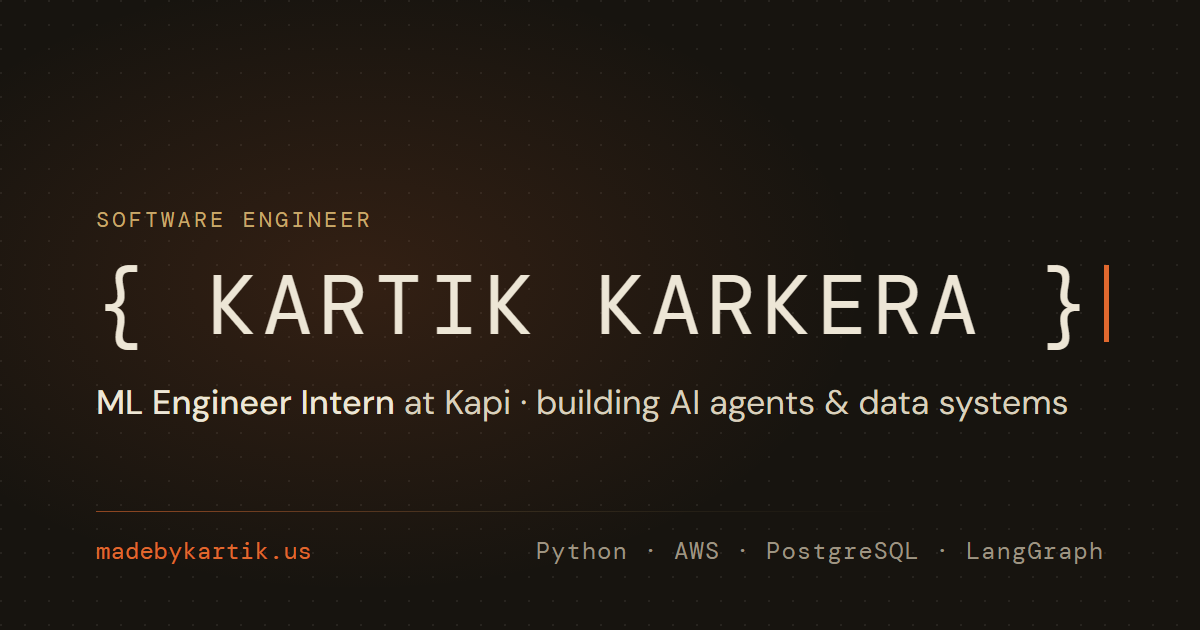
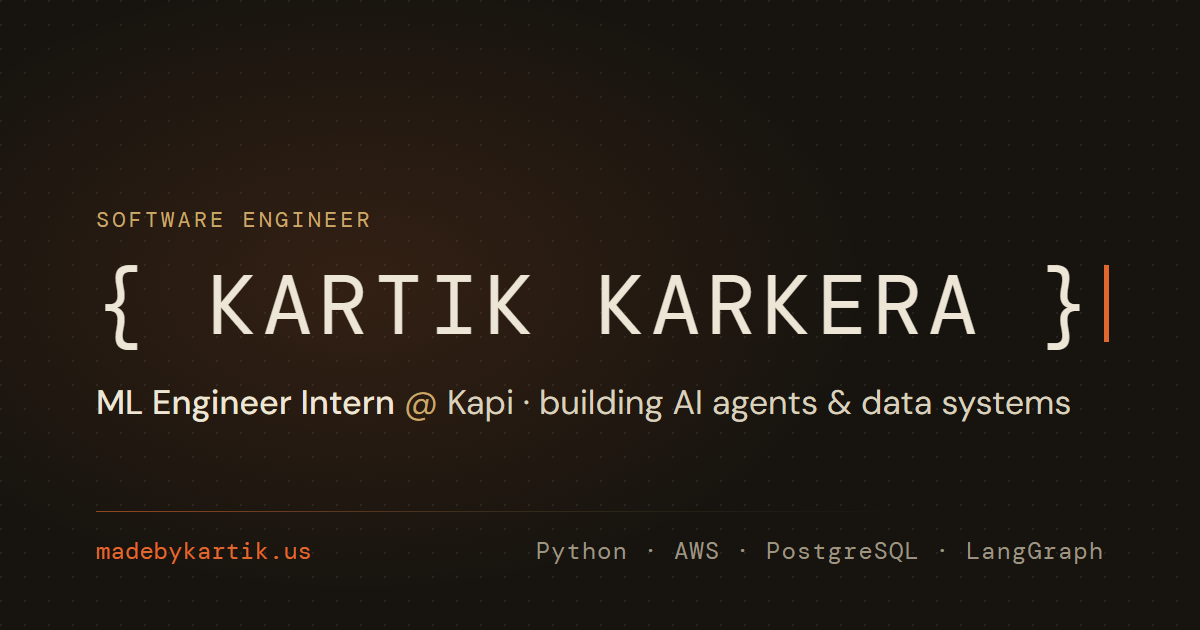
Refine hero: quieter Now chip, prominent age, earlier reveal
- Make the "Now building Duo" chip a static, minimal outline link
- Enlarge and brighten the live age number
- Fade hero content in as the name starts gliding, not after it lands
- Use "@ Kapi" and "@ PyCray" in the role line and link preview
- Phones: wrap the chip as one sentence and hide the scroll cue

Changed region(s): [[0.3392, 0.6032, 0.8942, 0.6635]]

diff --git a/src/components/Title/Title.css b/src/components/Title/Title.css
@@ -138,6 +138,12 @@
     text-decoration-color: var(--accent-gold);
 }
 
+/* "@" reads as a handle, so keep it quieter than the company name */
+.hero-at {
+    color: var(--accent-blue);
+    font-weight: 400;
+}
+
 .hero-sep {
     margin: 0 0.55em;
     color: var(--accent-blue);
@@ -148,71 +154,62 @@
     white-space: nowrap;
 }
 
-/* 3. Age: a quiet signature detail */
+/* 3. Age: the live number is the signature detail, so it gets the emphasis */
 .hero-age {
-    margin: 0;
+    margin: var(--space-1) 0 0;
     font-family: var(--font-mono);
-    font-size: clamp(0.8rem, 2.2vw, 0.9rem);
-    color: var(--text-300);
+    font-size: clamp(0.82rem, 2.3vw, 0.95rem);
+    line-height: 1.6;
+    color: var(--text-200);
 }
 
-/* 4. Now: the one loud element below the name */
+.hero-age .t-age {
+    font-size: 1.32em;
+    font-weight: 500;
+    vertical-align: -0.06em;
+}
+
+/* 4. Now: a quiet outlined link; the orange dot is its only accent */
+/* inline text (not flex) so a narrow screen wraps the sentence, not the dot and arrow */
 .hero-now {
-    display: inline-flex;
-    align-items: center;
-    flex-wrap: wrap;
-    justify-content: center;
-    gap: 0.35rem 0.6rem;
+    display: inline-block;
+    text-align: center;
+    line-height: 1.6;
     margin-top: var(--space-4);
-    padding: 0.55rem 1rem;
+    padding: 0.45rem 0.95rem;
     min-height: 44px;
-    border: 1px solid rgba(224, 104, 46, 0.38);
+    border: 1px solid rgba(201, 168, 106, 0.24);
     border-radius: 999px;
-    background: rgba(224, 104, 46, 0.08);
     font-family: var(--font-mono);
-    font-size: clamp(0.8rem, 2.3vw, 0.9rem);
-    color: var(--text-100);
+    font-size: clamp(0.8rem, 2.3vw, 0.88rem);
+    color: var(--text-200);
     text-decoration: none;
-    transition: border-color 0.25s ease, background-color 0.25s ease;
+    transition: border-color 0.25s ease, color 0.25s ease;
 }
 
 .hero-now:hover {
-    border-color: rgba(224, 104, 46, 0.75);
-    background: rgba(224, 104, 46, 0.14);
+    border-color: rgba(224, 104, 46, 0.6);
+    color: var(--text-100);
 }
 
 .hero-now strong {
-    color: var(--accent-gold);
+    color: var(--text-100);
     font-weight: 500;
-}
-
-.hero-now-label {
-    font-size: 0.78em;
-    font-weight: 500;
-    letter-spacing: 0.14em;
-    text-transform: uppercase;
-    color: var(--accent-gold);
 }
 
 .hero-now-dot {
-    position: relative;
-    width: 8px;
-    height: 8px;
+    display: inline-block;
+    vertical-align: 0.12em;
+    margin-right: 0.6em;
+    width: 6px;
+    height: 6px;
     border-radius: 50%;
     background: var(--accent-gold);
-}
-
-/* "live" pulse; the global reduced-motion rule stops it */
-.hero-now-dot::after {
-    content: "";
-    position: absolute;
-    inset: 0;
-    border-radius: 50%;
-    background: var(--accent-gold);
-    animation: nowPulse 2s var(--ease-out-quint) infinite;
 }
 
 .hero-now-arrow {
+    display: inline-block;
+    margin-left: 0.5em;
     color: var(--accent-gold);
     transition: transform 0.25s var(--ease-out-quint);
 }
@@ -358,11 +355,6 @@
 }
 
 /* ── Keyframes ─────────────────────────────────────────────── */
-@keyframes nowPulse {
-    0%   { transform: scale(1); opacity: 0.6; }
-    80%, 100% { transform: scale(2.6); opacity: 0; }
-}
-
 @keyframes caretBlink {
     50% { opacity: 0; }
 }
@@ -386,6 +378,13 @@
     .hero-now {
         border-radius: 16px;
         padding: 0.6rem 0.9rem;
+    }
+
+    /* the hero is taller than a phone screen, so the cue would sit on the links;
+       touch users scroll naturally anyway. Scoped under .hero-terminal so it outranks
+       the base .scroll-cue rule, which sits later in this file. */
+    .hero-terminal .scroll-cue {
+        display: none;
     }
 }
 

diff --git a/src/components/Title/Title.jsx b/src/components/Title/Title.jsx
@@ -21,11 +21,14 @@ const Title = ({ phase = "revealed", onNameReady, onOpenResume }) => {
         }
     }, [phase, onNameReady]);
 
+    // The h1 appears only when the overlay lands on it (a seamless swap),
+    // but everything else starts fading in as soon as the name begins to glide.
     const isRevealed = phase === "revealed";
+    const showContent = phase !== "typing";
 
     return (
         <div className={`hero-terminal phase-${phase}`}>
-            <div className={`terminal-content ${isRevealed ? "revealed" : ""}`}>
+            <div className={`terminal-content ${showContent ? "revealed" : ""}`}>
                 <h1
                     ref={nameRef}
                     className="terminal-name"
@@ -37,17 +40,16 @@ const Title = ({ phase = "revealed", onNameReady, onOpenResume }) => {
                     {"{ KARTIK KARKERA }"}
                 </h1>
                 <p className="hero-role" style={{ "--i": 1 }}>
-                    <span className="hero-role-item">ML Engineer Intern at <a href="#timeline">Kapi</a></span>
+                    <span className="hero-role-item">ML Engineer Intern <span className="hero-at">@</span> <a href="#timeline">Kapi</a></span>
                     <span className="hero-sep" aria-hidden="true">·</span>
-                    <span className="hero-role-item">Former SDE at <a href="#timeline">PyCray</a></span>
+                    <span className="hero-role-item">Former SDE <span className="hero-at">@</span> <a href="#timeline">PyCray</a></span>
                 </p>
                 <p className="hero-age" style={{ "--i": 2 }}>
                     I&apos;m a <Age /> year-old software engineer.
                 </p>
                 <a href="#project-duo" className="hero-now" style={{ "--i": 3 }}>
                     <span className="hero-now-dot" aria-hidden="true" />
-                    <span className="hero-now-label">Now</span>
-                    <span>Building <strong>Duo</strong>, a long-running AI agent</span>
+                    <span>Now building <strong>Duo</strong>, a long-running AI agent</span>
                     <span className="hero-now-arrow" aria-hidden="true">→</span>
                 </a>
                 <ul className="hero-awards" style={{ "--i": 4 }} aria-label="Hackathon awards">
@@ -73,13 +75,13 @@ const Title = ({ phase = "revealed", onNameReady, onOpenResume }) => {
                 </div>
             </div>
             <button
-                className={`scroll-cue ${isRevealed ? "revealed" : ""}`}
+                className={`scroll-cue ${showContent ? "revealed" : ""}`}
                 onClick={() => {
                     const reduce = window.matchMedia("(prefers-reduced-motion: reduce)").matches;
                     document.querySelector("#timeline")?.scrollIntoView({ behavior: reduce ? "auto" : "smooth" });
                 }}
                 aria-label="Scroll to experience"
-                tabIndex={isRevealed ? 0 : -1}
+                tabIndex={showContent ? 0 : -1}
             >
                 <span className="scroll-cue-bar" aria-hidden="true" />
                 <span className="scroll-cue-arrow" aria-hidden="true">↓</span>
